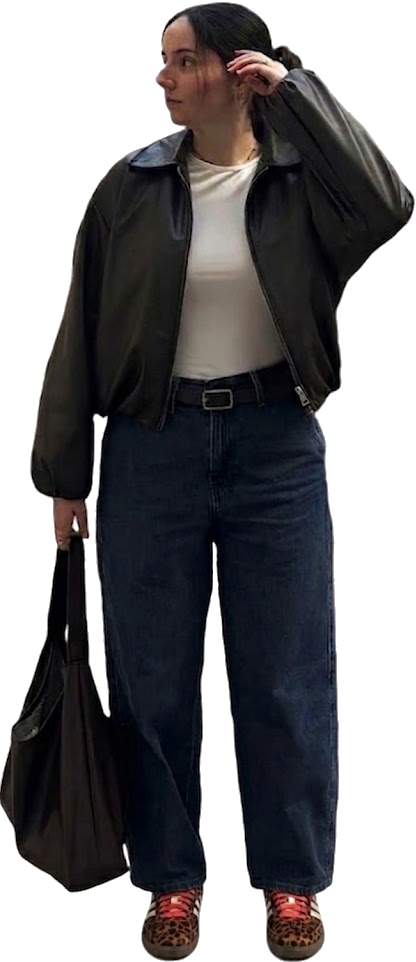
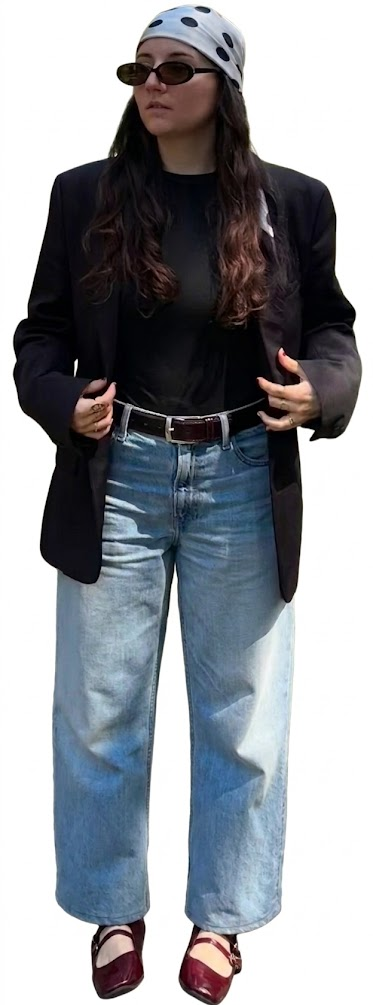
zdzqb

diff --git a/portfolio - Copie.html b/portfolio - Copie.html
@@ -1,5 +1,5 @@
 <!DOCTYPE html>
-<html lang="fr">
+<html lang="en">
 <head>
     <!-- Coder sur Git :
         1. git clone https://github.com/Totom38/Totom38.github.io
@@ -1190,7 +1190,7 @@
 
         .collab-steps {
             display: grid;
-            grid-template-columns: repeat(4, 1fr);
+            grid-template-columns: repeat(3, 1fr);
             gap: 2rem;
             position: relative;
         }
@@ -1199,8 +1199,8 @@
             content: '';
             position: absolute;
             top: 3.5rem;
-            left: calc(12.5% + 1rem);
-            right: calc(12.5% + 1rem);
+            left: calc(16.66% + 1rem);
+            right: calc(16.66% + 1rem);
             height: 1px;
             background: linear-gradient(90deg, var(--accent-color), rgba(181, 122, 138, 0.3), var(--accent-color));
             z-index: 0;
@@ -1566,9 +1566,9 @@
             </ul>
             <div class="nav-divider"></div>
             <div class="lang-dropdown" id="langDropdown">
-                <button class="lang-flag" data-lang="fr" aria-label="Language"></button>
+                <button class="lang-flag" data-lang="en" aria-label="Language"></button>
                 <div class="lang-menu">
-                    <button class="lang-flag" data-lang="en"></button>
+                    <button class="lang-flag" data-lang="fr"></button>
                     <button class="lang-flag" data-lang="es"></button>
                 </div>
             </div> 
@@ -2013,34 +2013,25 @@
                     </div>
                     <div class="collab-step-number" data-i18n="collab.step1.number">Step 1</div>
                     <h4 data-i18n="collab.step1.title">First Contact &amp; Personalised Proposal</h4>
-                    <p data-i18n="collab.step1.description">We discuss your needs, your brand universe and your goals.</p>
-                </div>
-
-                <div class="collab-step">
-                    <div class="collab-step-icon">
-                        <i class="fa-solid fa-file-signature"></i>
-                    </div>
-                    <div class="collab-step-number" data-i18n="collab.step2.number">Step 2</div>
-                    <h4 data-i18n="collab.step2.title">Quote &amp; Agreement</h4>
-                    <p data-i18n="collab.step2.description">I send you a detailed quote. Once approved, we sign an agreement and plan the next steps together.</p>
+                    <p data-i18n="collab.step1.description">We discuss your needs, brand universe and goals. I then craft a tailored content concept designed for your target audience and platform</p>
                 </div>
 
                 <div class="collab-step">
                     <div class="collab-step-icon">
                         <i class="fa-solid fa-camera-retro"></i>
                     </div>
-                    <div class="collab-step-number" data-i18n="collab.step3.number">Step 3</div>
-                    <h4 data-i18n="collab.step3.title">Content Creation</h4>
-                    <p data-i18n="collab.step3.description">You send me the product if needed, then I create content according to the agreed brief, adapted to your platforms (Instagram, TikTok, ...).</p>
+                    <div class="collab-step-number" data-i18n="collab.step2.number">Step 2</div>
+                    <h4 data-i18n="collab.step2.title">Stay / Product Experience &amp; Content Creation</h4>
+                    <p data-i18n="collab.step2.description">Je vis l'expérience et crée du contenu vidéo et photo de manière authentique à travers des séjours et des tests produits qui reflètent sincèrement votre univers de marque</p>
                 </div>
 
                 <div class="collab-step">
                     <div class="collab-step-icon">
                         <i class="fa-solid fa-paper-plane"></i>
                     </div>
-                    <div class="collab-step-number" data-i18n="collab.step4.number">Step 4</div>
-                    <h4 data-i18n="collab.step4.title">Delivery &amp; Distribution</h4>
-                    <p data-i18n="collab.step4.description">You receive the edited files, ready to publish. We adjust together if needed, then I send you the final version.</p>
+                    <div class="collab-step-number" data-i18n="collab.step3.number">Step 3</div>
+                    <h4 data-i18n="collab.step3.title">Delivery &amp; Distribution</h4>
+                    <p data-i18n="collab.step3.description">You receive the final edited files, ready to publish. If you want, I can also publish the content on my channels to maximize reach and engagement</p>
                 </div>
 
             </div>
@@ -2394,16 +2385,13 @@
                 "collab.description": "Unboxings, demonstrations or product reviews, from first contact to final delivery...",
                 "collab.step1.number": "Step 1",
                 "collab.step1.title": "First Contact & Personalised Proposal",
-                "collab.step1.description": "We discuss your needs, your brand universe and your goals.",
+                "collab.step1.description": "We discuss your needs, brand universe and goals. I then craft a tailored content concept designed for your target audience and platform",
                 "collab.step2.number": "Step 2",
-                "collab.step2.title": "Quote & Agreement",
-                "collab.step2.description": "I send you a quote tailored to your needs and we agree together on the terms of our collaboration.",
+                "collab.step2.title": "Stay / Product Experience & Content Creation",
+                "collab.step2.description": "I live the experience and create video and photo content authentically through stays and product testing that genuinely reflect your brand universe",
                 "collab.step3.number": "Step 3",
-                "collab.step3.title": "Content Creation",
-                "collab.step3.description": "You send me the product if needed, then I create content according to the agreed brief, adapted to your platforms (Instagram, TikTok, ...).",
-                "collab.step4.number": "Step 4",
-                "collab.step4.title": "Delivery & Distribution",
-                "collab.step4.description": "You receive the edited files, ready to publish. We adjust together if needed, then I send you the final version.",
+                "collab.step3.title": "Delivery & Distribution",
+                "collab.step3.description": "You receive the final edited files, ready to publish. If you want, I can also publish the content on my channels to maximize reach and engagement",
                 "footer.title": "Let\u2019s Connect & Collaborate",
                 "footer.contactLabel": "Contact:",
                 "footer.copyright": "\u00a9 2026 Emilie Tavel. All rights reserved."
@@ -2468,16 +2456,13 @@
                 "collab.description": "Unboxings, d\u00e9monstrations ou encore avis produits, du premier contact \u00e0 la livraison finale...",
                 "collab.step1.number": "\u00c9tape 1",
                 "collab.step1.title": "Premier contact & proposition personnalis\u00e9e",
-                "collab.step1.description": "On \u00e9change sur vos besoins, votre univers de marque et vos objectifs",
+                "collab.step1.description": "On \u00e9change sur vos besoins, votre univers de marque et vos objectifs. Je con\u00e7ois ensuite un concept de contenu sur mesure, adapt\u00e9 \u00e0 votre audience et votre plateforme (Instagram, TikTok, ...)",
                 "collab.step2.number": "\u00c9tape 2",
-                "collab.step2.title": "Devis & accord",
-                "collab.step2.description": "Je vous propose un devis adapt\u00e9 \u00e0 vos besoins et nous validons ensemble les conditions de notre collaboration",
+                "collab.step2.title": "S\u00e9jour / Exp\u00e9rience produit & cr\u00e9ation de contenu",
+                "collab.step2.description": "Je vis l\u2019exp\u00e9rience et cr\u00e9e du contenu vid\u00e9o et photo de mani\u00e8re authentique, selon le brief valid\u00e9",
                 "collab.step3.number": "\u00c9tape 3",
-                "collab.step3.title": "Cr\u00e9ation de contenu",
-                "collab.step3.description": "Vous m'envoyez le produit si besoin, puis je cr\u00e9e du contenu selon le brief valid\u00e9, adapt\u00e9 \u00e0 vos réseaux (Instagram, TikTok, ...)",
-                "collab.step4.number": "\u00c9tape 4",
-                "collab.step4.title": "Livraison & diffusion",
-                "collab.step4.description": "Vous recevez les fichiers \u00e9dit\u00e9s, pr\u00eats \u00e0 publier. Nous ajustons ensemble si nécessaire puis je vous envoie la version finale",
+                "collab.step3.title": "Livraison & diffusion",
+                "collab.step3.description": "Vous recevez les fichiers finaux \u00e9dit\u00e9s, pr\u00eats \u00e0 publier. Si vous le souhaitez, je peux aussi publier le contenu sur mes r\u00e9seaux pour maximiser la port\u00e9e et l\u2019engagement",
                 "footer.title": "Collaborons ensemble",
                 "footer.contactLabel": "Contact\u00a0:",
                 "footer.copyright": "\u00a9 2026 Emilie Tavel. Tous droits r\u00e9serv\u00e9s."
@@ -2542,16 +2527,13 @@
                 "collab.description": "Unboxings, demostraciones o reseñas de productos, desde el primer contacto hasta la entrega final...",
                 "collab.step1.number": "Paso 1",
                 "collab.step1.title": "Primer contacto y propuesta personalizada",
-                "collab.step1.description": "Hablamos sobre tus necesidades, tu universo de marca y tus objetivos.",
+                "collab.step1.description": "Hablamos sobre tus necesidades, tu universo de marca y tus objetivos. Luego dise\u00f1o un concepto de contenido a medida, adaptado a tu audiencia y tu plataforma.",
                 "collab.step2.number": "Paso 2",
-                "collab.step2.title": "Presupuesto & acuerdo",
-                "collab.step2.description": "Te propongo un presupuesto adaptado a tus necesidades y acordamos juntos las condiciones de nuestra colaboraci\u00f3n.",
+                "collab.step2.title": "Estancia / Experiencia de producto y creaci\u00f3n de contenido",
+                "collab.step2.description": "Vivo la experiencia y creo contenido de v\u00eddeo y foto de forma aut\u00e9ntica a trav\u00e9s de estancias y pruebas de producto que reflejan sinceramente tu universo de marca",
                 "collab.step3.number": "Paso 3",
-                "collab.step3.title": "Creaci\u00f3n de contenido",
-                "collab.step3.description": "Me env\u00edas el producto si es necesario, luego creo contenido seg\u00fan el brief acordado, adaptado a tus redes (Instagram, TikTok, ...).",
-                "collab.step4.number": "Paso 4",
-                "collab.step4.title": "Entrega y difusi\u00f3n",
-                "collab.step4.description": "Recibes los archivos editados, listos para publicar. Ajustamos juntos si es necesario y luego te env\u00edo la versi\u00f3n final.",
+                "collab.step3.title": "Entrega y difusi\u00f3n",
+                "collab.step3.description": "Recibes los archivos finales editados, listos para publicar. Si lo deseas, tambi\u00e9n puedo publicar el contenido en mis redes para maximizar el alcance y el engagement.",
                 "footer.title": "Colaboremos juntos",
                 "footer.contactLabel": "Contacto:",
                 "footer.copyright": "\u00a9 2026 Emilie Tavel. Todos los derechos reservados."
